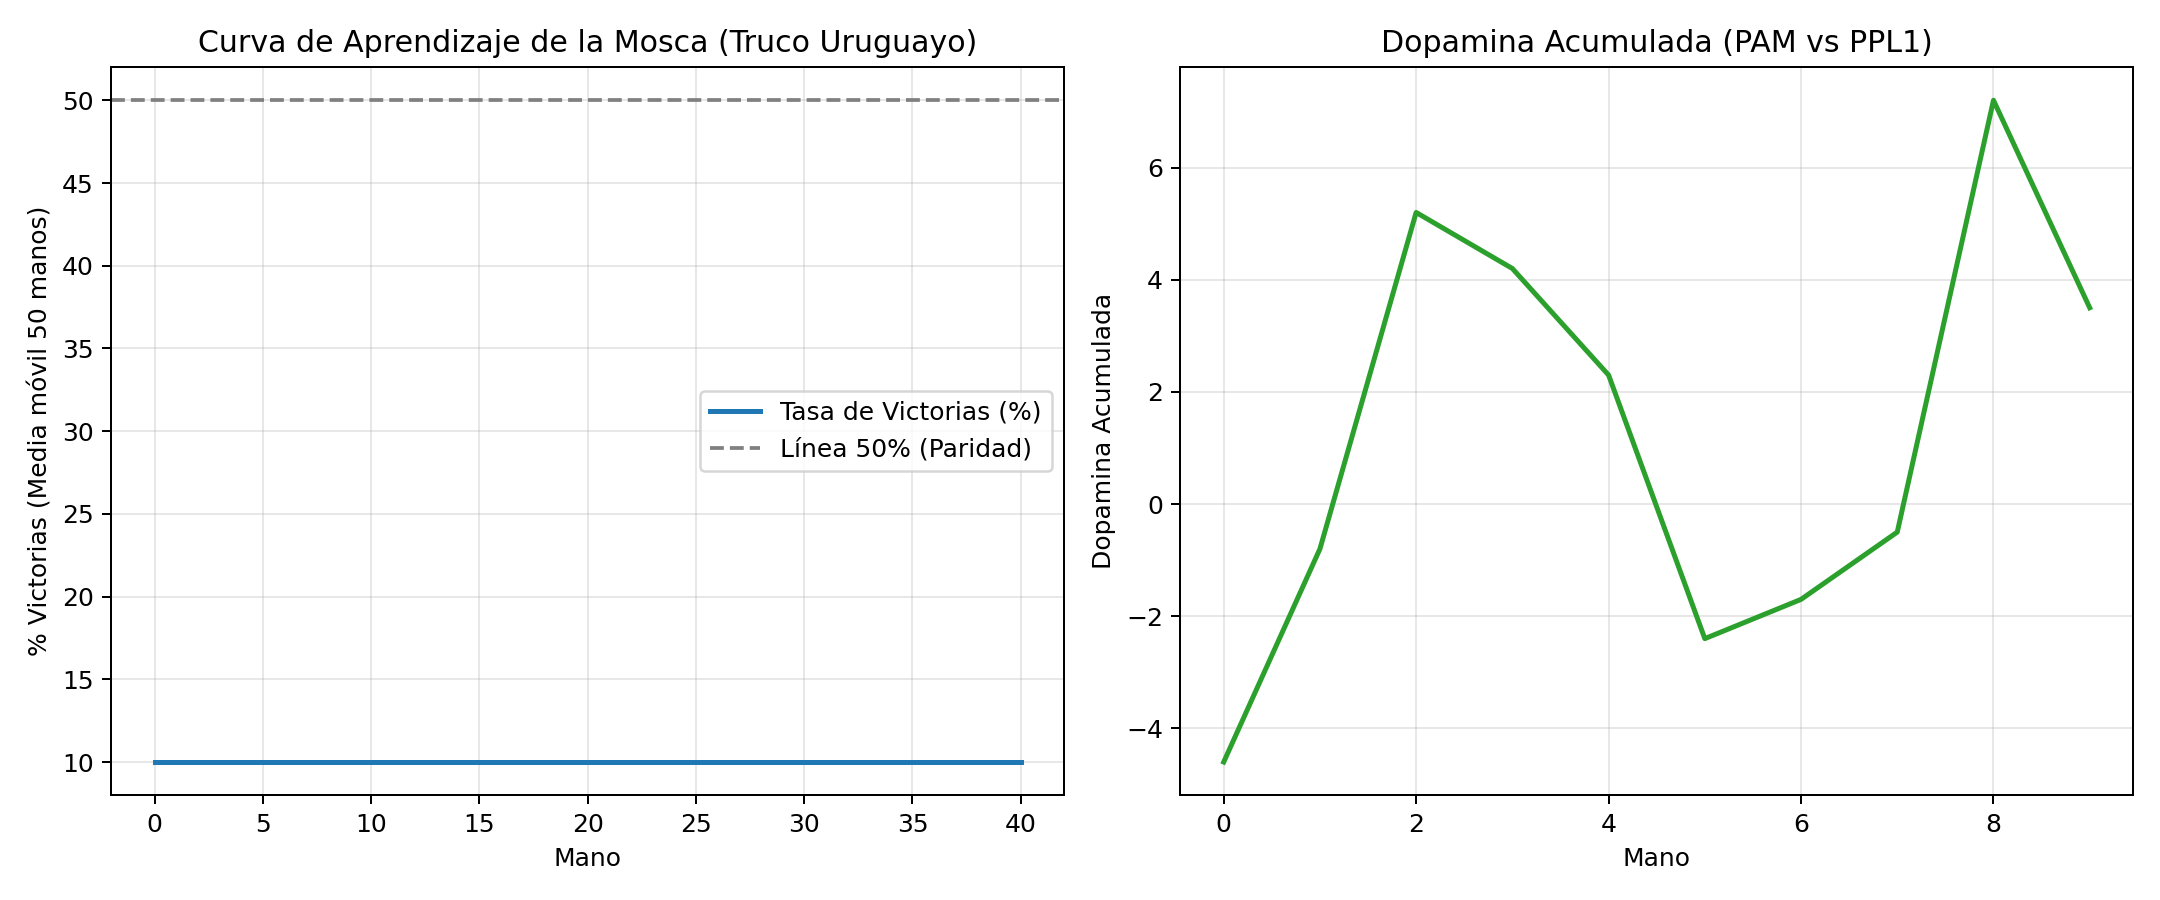
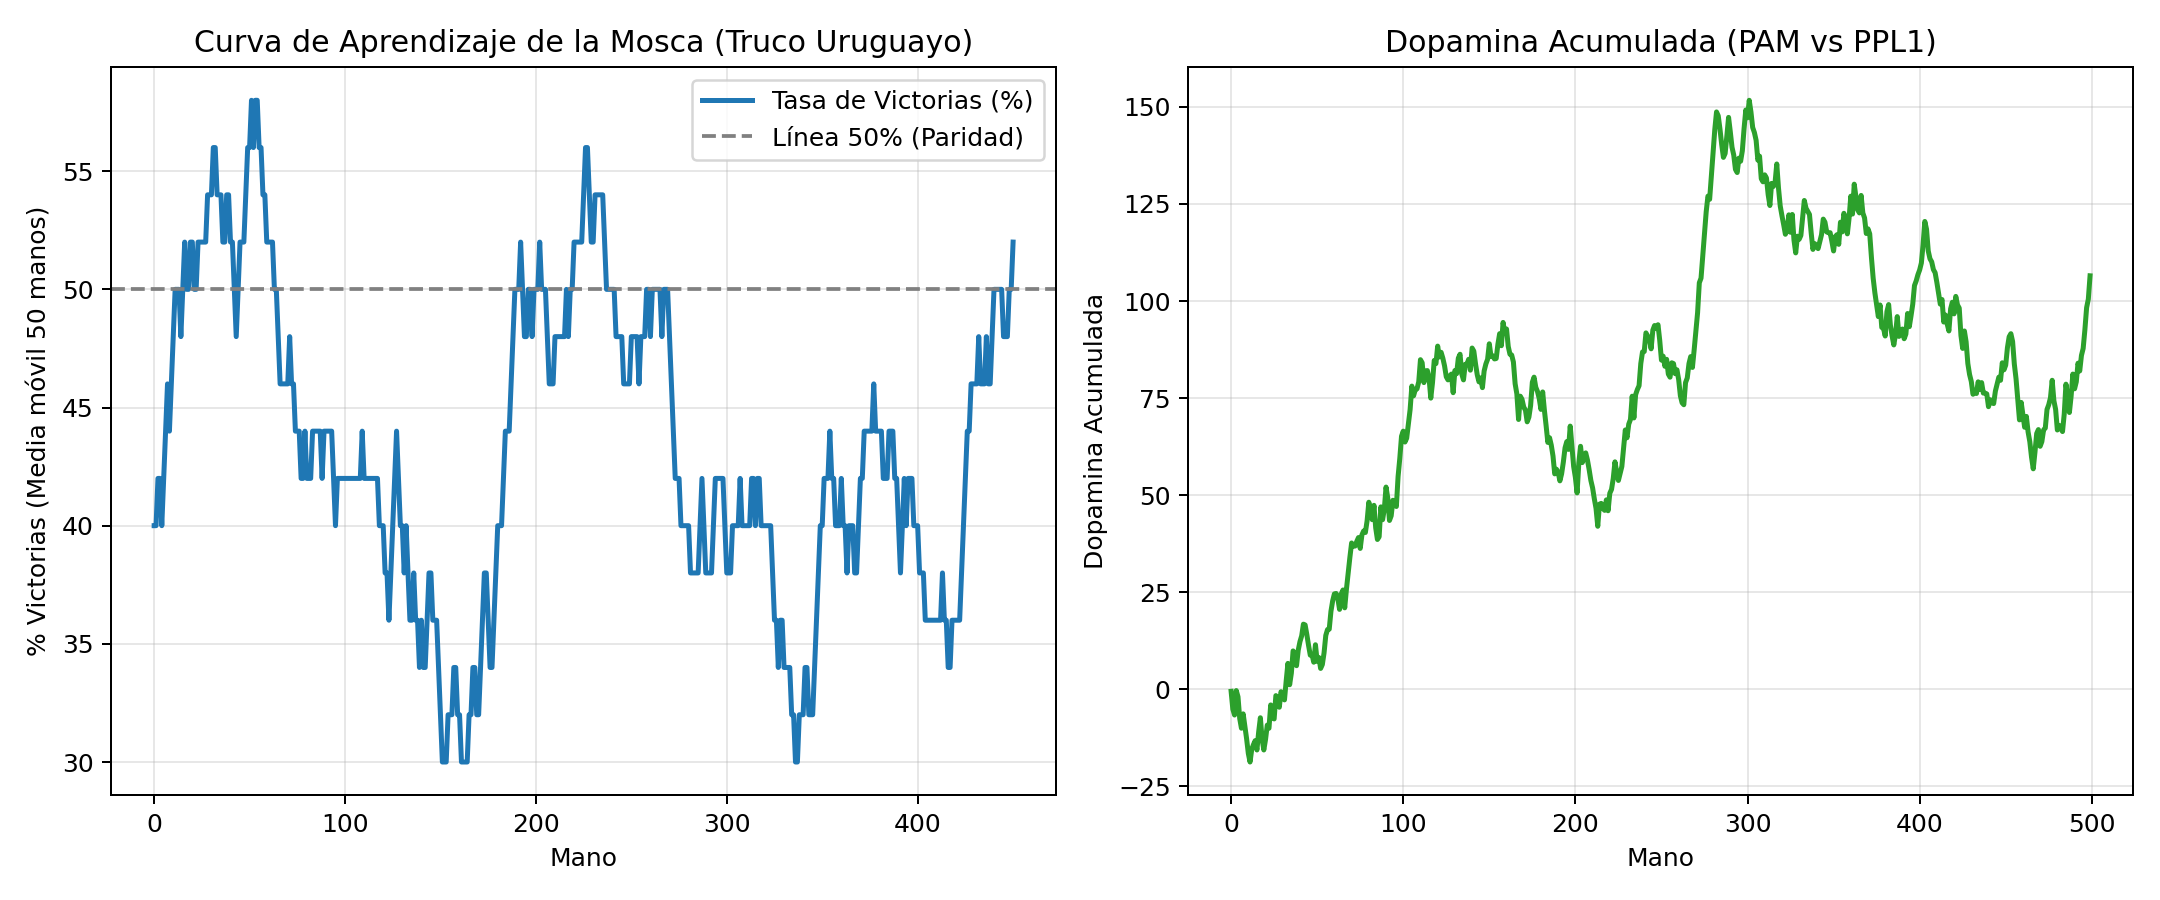
Calibracion neurobiologica de Envido: recompensa dopaminergica por fold prudente y calibracion sensorial

diff --git a/train_fly_truco.py b/train_fly_truco.py
@@ -145,68 +145,95 @@ def simulate_hand(fly: FlyBrainTrucoAgent, bot: HeuristicBot, fly_is_hand: bool)
         fly_envido_val = calculate_envido(fly_cards, muestra)
         bot_envido_val = calculate_envido(bot_cards, muestra)
 
-        state_envido = fly.encode_state(fly_cards, muestra, [], 0, 0, False)
-        fly_wants_envido = fly.decide_envido(state_envido)
+        st_uncalled = fly.encode_state(fly_cards, muestra, [], 0, 0, False)
+        st_called = fly.encode_state(fly_cards, muestra, [], 0, 0, True)
 
         if fly_is_hand:
-            if fly_wants_envido:
-                bot_accepts = bot.decide_accept_envido(bot_cards, muestra)
-                if bot_accepts:
-                    if fly_envido_val >= bot_envido_val:
-                        fly_pts += 2
-                        fly.apply_dopamine_reward(1.5)
-                        dopamine_earned += 1.5
-                    else:
-                        bot_pts += 2
-                        fly.apply_dopamine_reward(-1.2)
-                        dopamine_earned -= 1.2
-                else:
-                    fly_pts += 1
-                    fly.apply_dopamine_reward(0.8)
-                    dopamine_earned += 0.8
-            elif bot.decide_envido(bot_cards, muestra):
-                if fly.decide_accept_envido(state_envido):
-                    if fly_envido_val >= bot_envido_val:
-                        fly_pts += 2
-                        fly.apply_dopamine_reward(1.5)
-                        dopamine_earned += 1.5
-                    else:
-                        bot_pts += 2
-                        fly.apply_dopamine_reward(-1.2)
-                        dopamine_earned -= 1.2
-                else:
-                    bot_pts += 1
-                    fly.apply_dopamine_reward(-0.5)
-                    dopamine_earned -= 0.5
-        else:
-            if bot.decide_envido(bot_cards, muestra):
-                if fly.decide_accept_envido(state_envido):
-                    if fly_envido_val > bot_envido_val:
-                        fly_pts += 2
-                        fly.apply_dopamine_reward(1.5)
-                        dopamine_earned += 1.5
-                    else:
-                        bot_pts += 2
-                        fly.apply_dopamine_reward(-1.2)
-                        dopamine_earned -= 1.2
-                else:
-                    bot_pts += 1
-                    fly.apply_dopamine_reward(-0.5)
-                    dopamine_earned -= 0.5
-            elif fly_wants_envido:
+            # 1. Mosca es mano: decide si canta Envido
+            if fly.decide_envido(st_uncalled):
                 if bot.decide_accept_envido(bot_cards, muestra):
-                    if fly_envido_val > bot_envido_val:
+                    if fly_envido_val >= bot_envido_val:
                         fly_pts += 2
-                        fly.apply_dopamine_reward(1.5)
-                        dopamine_earned += 1.5
+                        fly.apply_dopamine_reward(2.0)
+                        dopamine_earned += 2.0
                     else:
                         bot_pts += 2
-                        fly.apply_dopamine_reward(-1.2)
-                        dopamine_earned -= 1.2
+                        penalty = -2.5 if fly_envido_val < 27 else -1.0
+                        fly.apply_dopamine_reward(penalty)
+                        dopamine_earned += penalty
                 else:
                     fly_pts += 1
                     fly.apply_dopamine_reward(0.8)
                     dopamine_earned += 0.8
+            else:
+                # Mosca no cantó. Recompensa por prudencia si tenía poco, o castigo si desperdició mano
+                if fly_envido_val < 26:
+                    fly.apply_dopamine_reward(0.3)
+                    dopamine_earned += 0.3
+                elif fly_envido_val >= 28:
+                    fly.apply_dopamine_reward(-1.0)
+                    dopamine_earned -= 1.0
+
+                # El bot puede cantar envido como segundo jugador
+                if bot.decide_envido(bot_cards, muestra):
+                    if fly.decide_accept_envido(st_called):
+                        if fly_envido_val >= bot_envido_val:
+                            fly_pts += 2
+                            fly.apply_dopamine_reward(2.0)
+                            dopamine_earned += 2.0
+                        else:
+                            bot_pts += 2
+                            penalty = -2.5 if fly_envido_val < 27 else -1.0
+                            fly.apply_dopamine_reward(penalty)
+                            dopamine_earned += penalty
+                    else:
+                        bot_pts += 1
+                        # ¡PREMIO POR FOLD INTELIGENTE!
+                        if fly_envido_val < 27:
+                            fly.apply_dopamine_reward(0.6)
+                            dopamine_earned += 0.6
+                        else:
+                            fly.apply_dopamine_reward(-2.0)
+                            dopamine_earned -= 2.0
+        else:
+            # 2. Bot es mano: decide si canta Envido primero
+            if bot.decide_envido(bot_cards, muestra):
+                if fly.decide_accept_envido(st_called):
+                    if fly_envido_val > bot_envido_val: # Bot es mano, empate gana bot
+                        fly_pts += 2
+                        fly.apply_dopamine_reward(2.0)
+                        dopamine_earned += 2.0
+                    else:
+                        bot_pts += 2
+                        penalty = -2.5 if fly_envido_val < 27 else -1.0
+                        fly.apply_dopamine_reward(penalty)
+                        dopamine_earned += penalty
+                else:
+                    bot_pts += 1
+                    # ¡PREMIO POR FOLD INTELIGENTE!
+                    if fly_envido_val < 27:
+                        fly.apply_dopamine_reward(0.6)
+                        dopamine_earned += 0.6
+                    else:
+                        fly.apply_dopamine_reward(-2.0)
+                        dopamine_earned -= 2.0
+            else:
+                # Bot no cantó. Mosca como segundo jugador puede cantar
+                if fly.decide_envido(st_uncalled):
+                    if bot.decide_accept_envido(bot_cards, muestra):
+                        if fly_envido_val > bot_envido_val:
+                            fly_pts += 2
+                            fly.apply_dopamine_reward(2.0)
+                            dopamine_earned += 2.0
+                        else:
+                            bot_pts += 2
+                            penalty = -2.5 if fly_envido_val < 27 else -1.0
+                            fly.apply_dopamine_reward(penalty)
+                            dopamine_earned += penalty
+                    else:
+                        fly_pts += 1
+                        fly.apply_dopamine_reward(0.8)
+                        dopamine_earned += 0.8
 
     # 3. FASE DE TRUCO (3 BAZAS CON ESCALERA COMPLETA: TRUCO, RE-TRUCO, VALE 4)
     trick_wins = []

diff --git a/fly_brain_agent.py b/fly_brain_agent.py
@@ -102,8 +102,9 @@ class FlyBrainTrucoAgent:
             else:
                 vec[i] = 0.0
 
-        # 2. Puntos de envido propios (normalizado 0..1 sobre 60 pts posibles)
-        vec[3] = calculate_envido(hand, muestra) / 60.0
+        # 2. Puntos de envido propios (normalizado 0..1 sobre 37 pts máximos reales)
+        pts_env = calculate_envido(hand, muestra) if hand and muestra else 0
+        vec[3] = float(np.clip(pts_env / 37.0, 0.0, 1.0))
 
         # 3. ¿La muestra es pieza?
         piezas = get_effective_piezas(muestra)
@@ -268,6 +269,14 @@ class FlyBrainTrucoAgent:
         """MBON 7 y 8 deciden si cantar Envido."""
         kc_act, mbon_act = self.forward(state_vec)
         diff = mbon_act[7] - mbon_act[8]
+
+        # Modulación biológica por umbral de tantos (Sensory Gating):
+        envido_norm = state_vec[3] if len(state_vec) > 3 else 0.5
+        if envido_norm < (26.0 / 37.0):
+            diff -= 6.0 # Freno absoluto a cantar con mano baja (<26)
+        elif envido_norm >= (28.0 / 37.0):
+            diff += 4.0 # Impulso a cantar con mano buena (>=28)
+
         prob_envido = 1.0 / (1.0 + np.exp(-diff * 2.0))
         choice = bool(np.random.rand() < prob_envido)
         grad = np.zeros_like(self.W)
@@ -279,6 +288,16 @@ class FlyBrainTrucoAgent:
         """MBON 13 y 14 deciden si aceptar Envido (Quiero) o rechazar (No Quiero)."""
         kc_act, mbon_act = self.forward(state_vec)
         diff = mbon_act[13] - mbon_act[14]
+
+        # Modulación biológica por umbral de tantos:
+        envido_norm = state_vec[3] if len(state_vec) > 3 else 0.5
+        if envido_norm < (24.0 / 37.0):
+            # Mano baja/basura (<24 tantos): fuerte aversión / rechazo total
+            diff -= 6.0
+        elif envido_norm >= (28.0 / 37.0):
+            # Mano alta (>=28 tantos): fuerte impulso apetitivo de aceptación
+            diff += 3.5 + 2.5 * (envido_norm - 28.0 / 37.0)
+
         prob = 1.0 / (1.0 + np.exp(-diff * 2.0))
         choice = bool(np.random.rand() < prob)
         grad = np.zeros_like(self.W)

diff --git a/app_truco_fly.py b/app_truco_fly.py
@@ -721,7 +721,7 @@ def call_envido():
         raise HTTPException(status_code=400, detail="No puedes cantar Envido ahora.")
 
     game_session.add_log("✋ Tú anuncias: ¡¡ENVIDO!! (2 puntos)", "truco")
-    st = game_session.fly.encode_state(game_session.fly_cards, game_session.muestra, [], 0, 0, False)
+    st = game_session.fly.encode_state(game_session.fly_cards, game_session.muestra, [], 0, 0, True)
     game_session.latest_telemetry = game_session.fly.get_detailed_telemetry(st)
 
     if game_session.fly.decide_accept_envido(st):
